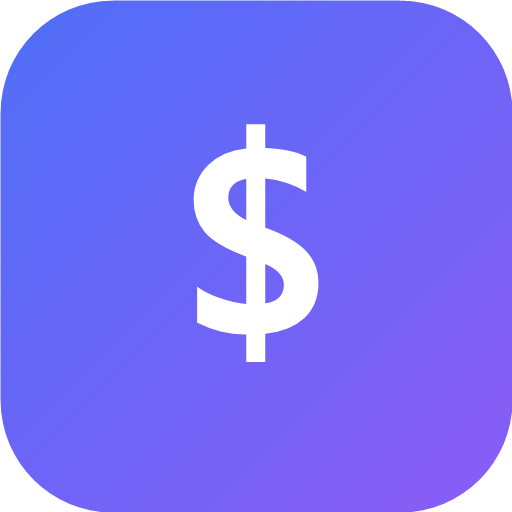
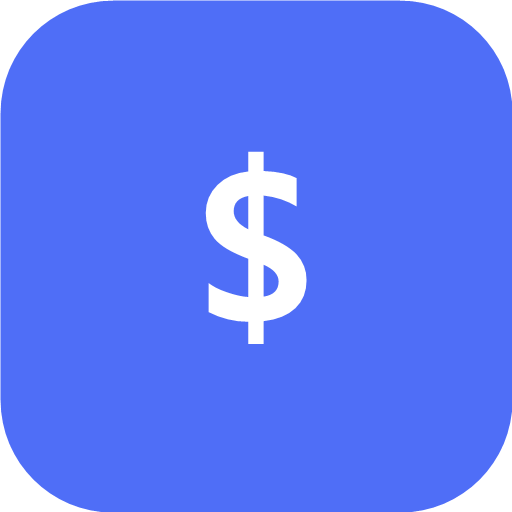
Corregir iconos para la pantalla de inicio del sistema
El icono adaptable era un signo blanco sin fondo. Ahora los iconos usan
el azul sólido de la app y se actualiza la caché para servirlos.

diff --git a/native/www/sw.js b/native/www/sw.js
@@ -1,4 +1,4 @@
-const CACHE = "finanzas-quincena-v2";
+const CACHE = "finanzas-quincena-v3";
 const ASSETS = [
   "./",
   "./index.html",

diff --git a/sw.js b/sw.js
@@ -1,4 +1,4 @@
-const CACHE = "finanzas-quincena-v2";
+const CACHE = "finanzas-quincena-v3";
 const ASSETS = [
   "./",
   "./index.html",
